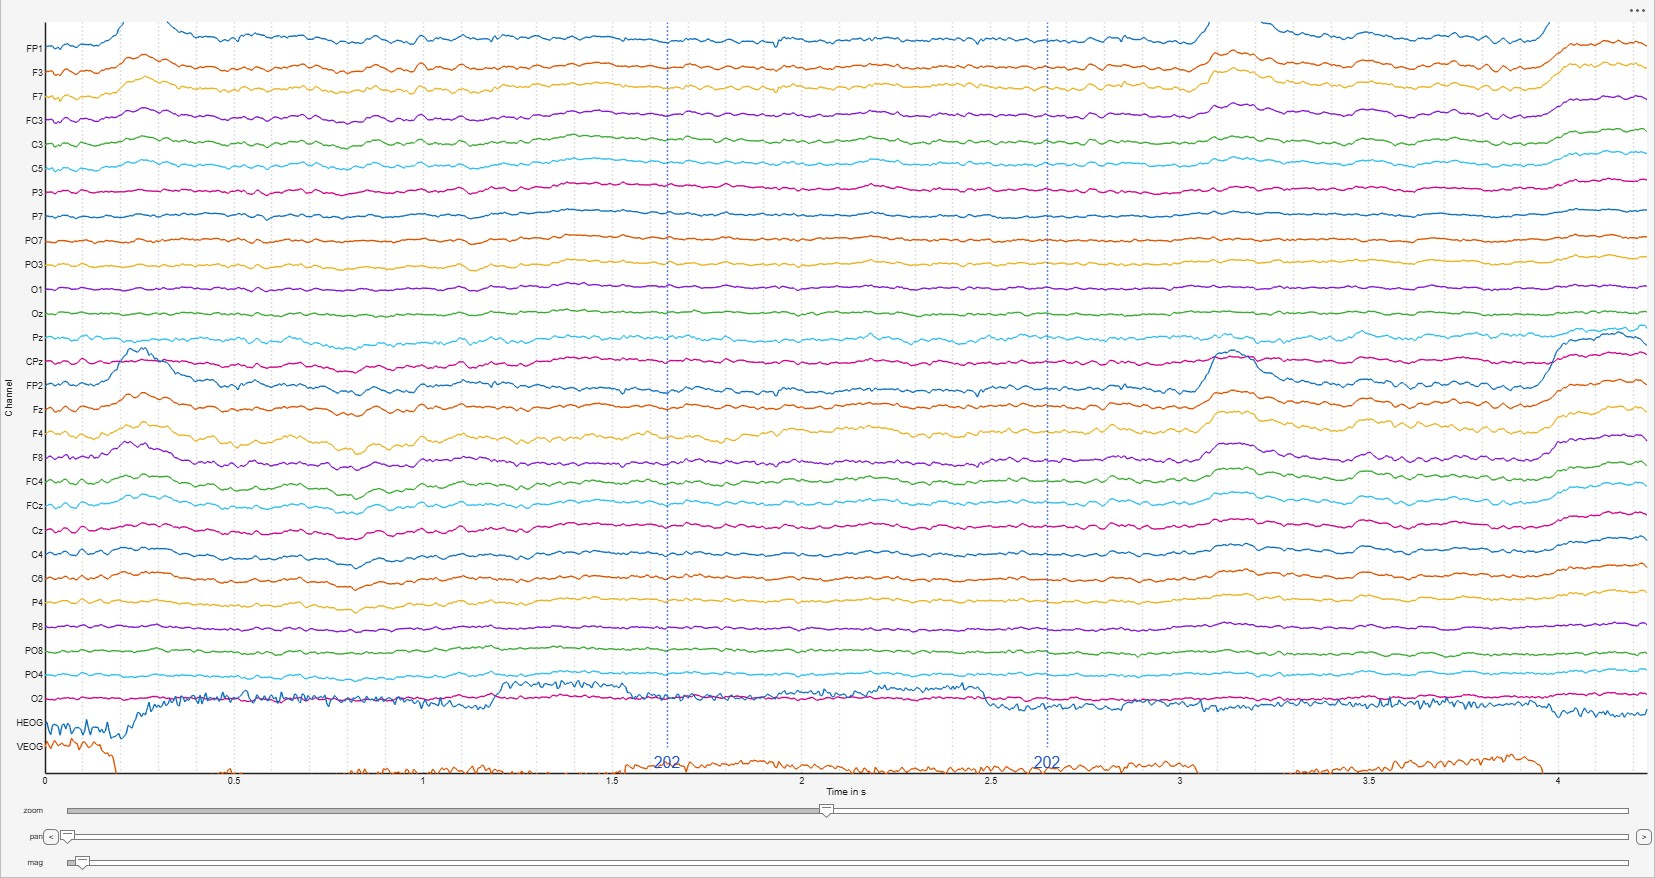
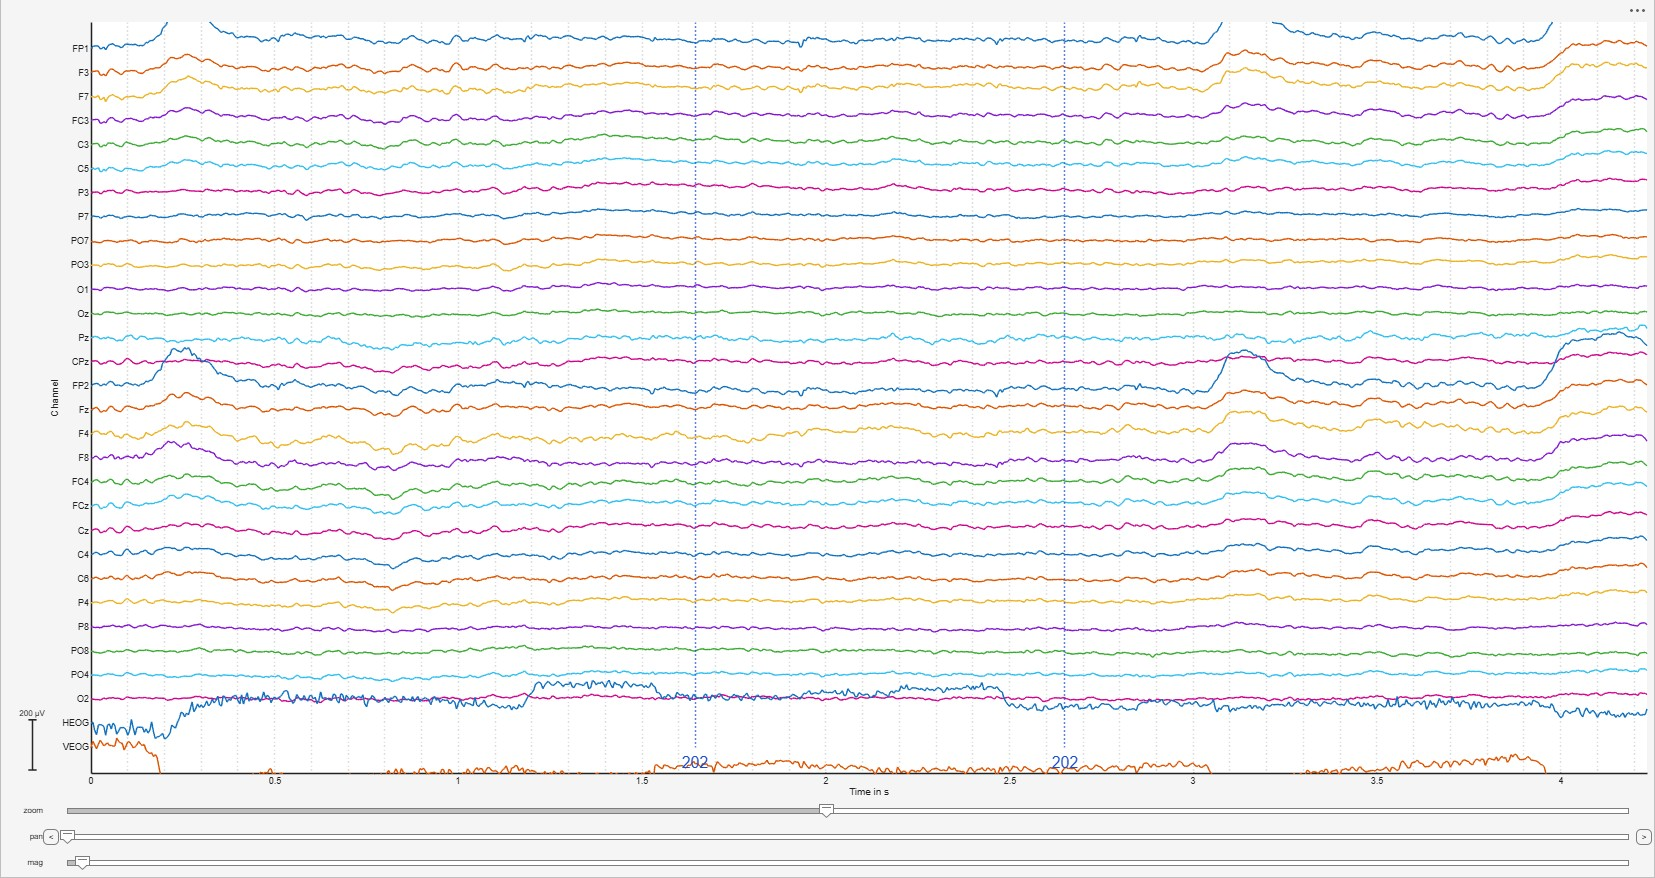
Add a scale bar to the continuous view
An I left of the labels, as long as the microvolts it is labelled with,
within a tenth of the plot. Manual picture retaken.

diff --git a/src/Views/SignalView.m b/src/Views/SignalView.m
@@ -105,6 +105,10 @@ classdef SignalView < AlakazamView
         DifferenceButton        % state uibutton
         RemoveButton            % uibutton
         DifferenceNote          % text in the axes: zoom in to see the difference
+        ScaleAxes               % uiaxes left of the channel labels, holding the scale bar
+        ScaleBar                % line: the scale bar, an I of ScaleMicrovolts
+        ScaleText               % text above it: how many microvolts it stands for
+        ScaleMicrovolts = NaN   % what the scale bar stands for, in microvolts
     end
 
     properties (Access = private)
@@ -118,6 +122,8 @@ classdef SignalView < AlakazamView
                                 % pages through them, showing this many at a time
         ChannelSliderPx = 18    % width of that scrollbar's column, pixels
         StepButtonPx = 16       % width of the pan step buttons, pixels
+        ScaleColumnPx = 46      % width of the scale bar's column, left of the labels
+        ScaleShareMax = 0.1     % the scale bar's longest, as a share of the plot's height
         % Above this many samples x channels in view, the difference is not
         % worked out (about 150 MB of doubles, and a second's work on every
         % slider move): the window has to be narrowed first.
@@ -354,6 +360,7 @@ classdef SignalView < AlakazamView
                 set(this.Axes, "XLim", [startTime, endTime]);
             end
             this.applyYLim(yVis);
+            this.updateScaleBar();
             this.updateScrollStep(numPoints);
             this.drawOverlaid(startIndex, endIndex, targetColumns, scaleValue, xVis);
             this.drawOverlays(startTime, endTime);
@@ -514,9 +521,26 @@ classdef SignalView < AlakazamView
                 "RowHeight", {'1x', this.SliderRowPx, this.SliderRowPx, this.SliderRowPx, 0}, ...
                 "ColumnWidth", {'1x', channelSliderCol}, ...
                 "Padding", [2 2 2 2], "RowSpacing", 2, "ColumnSpacing", 2);
-            this.Axes = uiaxes(this.Grid, "TickLabelInterpreter", "none");
+            % The plot and, left of its channel labels, the scale bar
+            % (updateScaleBar), side by side in row 1.
+            plotGrid = uigridlayout(this.Grid, [1 2], ...
+                "ColumnWidth", {this.ScaleColumnPx, '1x'}, ...
+                "Padding", [0 0 0 0], "ColumnSpacing", 0);
+            plotGrid.Layout.Row = 1;
+            plotGrid.Layout.Column = 1;
+            this.ScaleAxes = uiaxes(plotGrid, "Visible", "off", "XLim", [0 1], "YLim", [0 1], ...
+                "PickableParts", "none", "HitTest", "off");
+            this.ScaleAxes.Layout.Column = 1;
+            this.ScaleAxes.Toolbar.Visible = "off";
+            disableDefaultInteractivity(this.ScaleAxes);
+            this.ScaleBar = line(this.ScaleAxes, nan, nan, "Color", [0.15 0.15 0.15], ...
+                "LineWidth", 1.2, "Clipping", "off", "Tag", "ScaleBar");
+            this.ScaleText = text(this.ScaleAxes, 0.5, 0, "", "FontSize", 8, ...
+                "HorizontalAlignment", "center", "VerticalAlignment", "bottom", ...
+                "Clipping", "off", "Tag", "ScaleText");
+            this.Axes = uiaxes(plotGrid, "TickLabelInterpreter", "none");
             this.Axes.Layout.Row = 1;
-            this.Axes.Layout.Column = 1;
+            this.Axes.Layout.Column = 2;
             % Custom wheel scrolling needs uiaxes' own built-in scroll/drag
             % interactions disabled so they do not fight it.
             disableDefaultInteractivity(this.Axes);
@@ -664,6 +688,7 @@ classdef SignalView < AlakazamView
             if all(isfinite(yl)) && yl(2) > yl(1)
                 set(this.Axes, "YLim", yl);
             end
+            this.updateScaleBar();
             this.notifyActivated();
         end
 
@@ -812,6 +837,42 @@ classdef SignalView < AlakazamView
             if isfinite(lo) && isfinite(hi) && hi > lo
                 set(this.Axes, "YLim", [lo, hi]);
             end
+        end
+
+        function updateScaleBar(this)
+        %UPDATESCALEBAR  The scale bar left of the channel labels: an I as long
+        %   on screen as ScaleMicrovolts microvolts are in the plot at the
+        %   current magnification, labelled with that value. The value is the
+        %   largest 1, 2 or 5 x 10^k microvolts whose bar is no more than a
+        %   tenth of the plot's height (scaleMicrovolts), so it follows the
+        %   magnification. Drawn in pixels in its own axes, from the plot's
+        %   own y-limits and height, so the two need not share a layout.
+            if isempty(this.ScaleAxes) || ~isgraphics(this.ScaleAxes)
+                return;
+            end
+            yl = this.Axes.YLim;
+            gain = this.ScaleSlider.Value;
+            plotPx = this.Axes.InnerPosition(4);
+            barPx = this.ScaleAxes.InnerPosition(4);
+            if ~(diff(yl) > 0) || ~(gain > 0) || plotPx <= 1 || barPx <= 1
+                set(this.ScaleBar, "XData", nan, "YData", nan);
+                this.ScaleText.String = "";
+                this.ScaleMicrovolts = NaN;
+                return;
+            end
+            microvolts = SignalView.scaleMicrovolts(diff(yl) / gain, this.ScaleShareMax);
+            lengthPx = microvolts * gain / diff(yl) * plotPx;
+            this.ScaleAxes.YLim = [0, barPx];
+            % Its foot level with the bottom of the plot, a few pixels up.
+            bottom = max(0, this.Axes.InnerPosition(2) - this.ScaleAxes.InnerPosition(2)) + 4;
+            top = bottom + lengthPx;
+            cap = 0.18;
+            set(this.ScaleBar, ...
+                "XData", [0.5 - cap, 0.5 + cap, NaN, 0.5, 0.5, NaN, 0.5 - cap, 0.5 + cap], ...
+                "YData", [bottom, bottom, NaN, bottom, top, NaN, top, top]);
+            set(this.ScaleText, "Position", [0.5, top + 2, 0], ...
+                "String", SignalView.scaleLabel(microvolts));
+            this.ScaleMicrovolts = microvolts;
         end
 
         function updateScrollStep(this, numPoints)
@@ -1224,6 +1285,28 @@ classdef SignalView < AlakazamView
             spacing = max(eps, spacing);
             tickPos = -cumsum([0 spacing]);
             addVec = tickPos - signalMed;
+        end
+    end
+
+    methods (Static)
+        function microvolts = scaleMicrovolts(visibleMicrovolts, share)
+        %SCALEMICROVOLTS  What the scale bar stands for: the largest 1, 2 or
+        %   5 x 10^k microvolts that is no more than SHARE of the
+        %   VISIBLEMICROVOLTS the plot's height spans.
+            limit = share * visibleMicrovolts;
+            k = floor(log10(limit));
+            candidates = [1 2 5 10] * 10 ^ k;
+            microvolts = max(candidates(candidates <= limit * (1 + 1e-9)));
+        end
+
+        function text = scaleLabel(microvolts)
+        %SCALELABEL  MICROVOLTS as the scale bar's label: "50 uV", "0.5 uV",
+        %   and from a thousand up in millivolts, "2 mV" (with the micro sign).
+            if microvolts >= 1000
+                text = sprintf('%g mV', microvolts / 1000);
+            else
+                text = sprintf('%g %sV', microvolts, char(181));
+            end
         end
     end
 end

diff --git a/tests/SignalViewScaleBarTest.m b/tests/SignalViewScaleBarTest.m
@@ -1,0 +1,89 @@
+classdef SignalViewScaleBarTest < matlab.unittest.TestCase
+%SIGNALVIEWSCALEBARTEST  The scale bar left of a continuous recording's
+%   channel labels: an I as long as the microvolts its label gives, at the
+%   current magnification, and never more than a tenth of the plot's height.
+%
+%   Run with: runtests('tests/SignalViewScaleBarTest.m').
+%
+%   See also SIGNALVIEW, SIGNALVIEWBASELINETEST.
+
+    methods (TestClassSetup)
+        function addSourceToPath(testCase)
+            root = fileparts(fileparts(mfilename('fullpath')));
+            for p = {fullfile(root, 'src'), fullfile(root, 'src', 'Support'), ...
+                     fullfile(root, 'src', 'Views'), fullfile(root, 'src', 'Transformations')}
+                testCase.applyFixture(matlab.unittest.fixtures.PathFixture(p{1}));
+            end
+        end
+    end
+
+    methods (Test)
+        function itStandsForANiceNumberWithinATenth(testCase)
+            testCase.verifyEqual(SignalView.scaleMicrovolts(1000, 0.1), 100);
+            testCase.verifyEqual(SignalView.scaleMicrovolts(999, 0.1), 50);
+            testCase.verifyEqual(SignalView.scaleMicrovolts(30, 0.1), 2);
+            testCase.verifyEqual(SignalView.scaleMicrovolts(0.07, 0.1), 0.005, 'AbsTol', 1e-15);
+            testCase.verifyEqual(SignalView.scaleMicrovolts(45000, 0.1), 2000);
+        end
+
+        function itsLabelIsPrettyPrinted(testCase)
+            testCase.verifyEqual(SignalView.scaleLabel(50), ['50 ' char(181) 'V']);
+            testCase.verifyEqual(SignalView.scaleLabel(0.5), ['0.5 ' char(181) 'V']);
+            testCase.verifyEqual(SignalView.scaleLabel(2000), '2 mV');
+        end
+
+        function theBarIsAsLongAsItsLabelSaysAndFollowsTheMagnification(testCase)
+            [view, fig] = testCase.view(recording());
+            testCase.addTeardown(@() delete(fig));
+            view.redraw();
+            drawnow;
+            view.redraw();
+            first = testCase.verifyBar(view);
+
+            view.ScaleSlider.Value = view.ScaleSlider.Value * 4;
+            view.redraw();
+            second = testCase.verifyBar(view);
+            testCase.verifyLessThan(second, first, 'Magnified four times, the bar stands for fewer microvolts.');
+        end
+    end
+
+    methods (Access = private)
+        function microvolts = verifyBar(testCase, view)
+        %VERIFYBAR  The bar is an I, its length in the plot's units is its
+        %   microvolts at the magnification, no more than a tenth of the
+        %   plot's height, and its label says so.
+            microvolts = view.ScaleMicrovolts;
+            testCase.assertTrue(isfinite(microvolts), 'The bar stands for nothing.');
+            testCase.verifyEqual(char(view.ScaleText.String), SignalView.scaleLabel(microvolts));
+            y = view.ScaleBar.YData;
+            testCase.verifyNumElements(y, 8, 'Two caps and a stem, as an I.');
+            barPx = max(y) - min(y);
+            plotPx = view.Axes.InnerPosition(4);
+            expectedPx = microvolts * view.ScaleSlider.Value / diff(view.Axes.YLim) * plotPx;
+            testCase.verifyEqual(barPx, expectedPx, 'RelTol', 1e-9);
+            testCase.verifyLessThanOrEqual(barPx, 0.1 * plotPx + 1e-9);
+            testCase.verifyGreaterThan(barPx, 0.02 * plotPx, 'A bar too short to read.');
+        end
+
+        function [view, fig] = view(testCase, eeg)
+        %VIEW  A SignalView as AlakazamPlotter.plotContinuous builds one.
+            fig = uifigure('Visible', 'off', 'Position', [100 100 900 500]);
+            tab = uitab(uitabgroup(fig, 'Position', [0 0 900 500]));
+            view = SignalView(tab, eeg.times, eeg, ...
+                "ShowAxisTicks", true, "YLimMode", "fixed", "MmPerSec", 25, ...
+                "AutoStackSignals", string({eeg.chanlocs.labels}));
+            testCase.assertNotEmpty(view);
+        end
+    end
+end
+
+function eeg = recording()
+%RECORDING  Four channels of 8 s at 250 Hz: sines of 20 to 80 uV.
+    srate = 250;
+    t = (0:8 * srate - 1) / srate;
+    labels = {'Fz', 'Cz', 'Pz', 'Oz'};
+    eeg = struct('srate', srate, 'nbchan', 4, 'trials', 1, 'pnts', numel(t), 'times', t, ...
+        'DataFormat', 'CONTINUOUS', 'DataType', 'TimeDomain', ...
+        'chanlocs', struct('labels', labels), 'event', [], 'File', 'fixture', 'id', 'Filter');
+    eeg.data = (20:20:80)' .* sin(2 * pi * [3; 5; 7; 9] .* t);
+end
